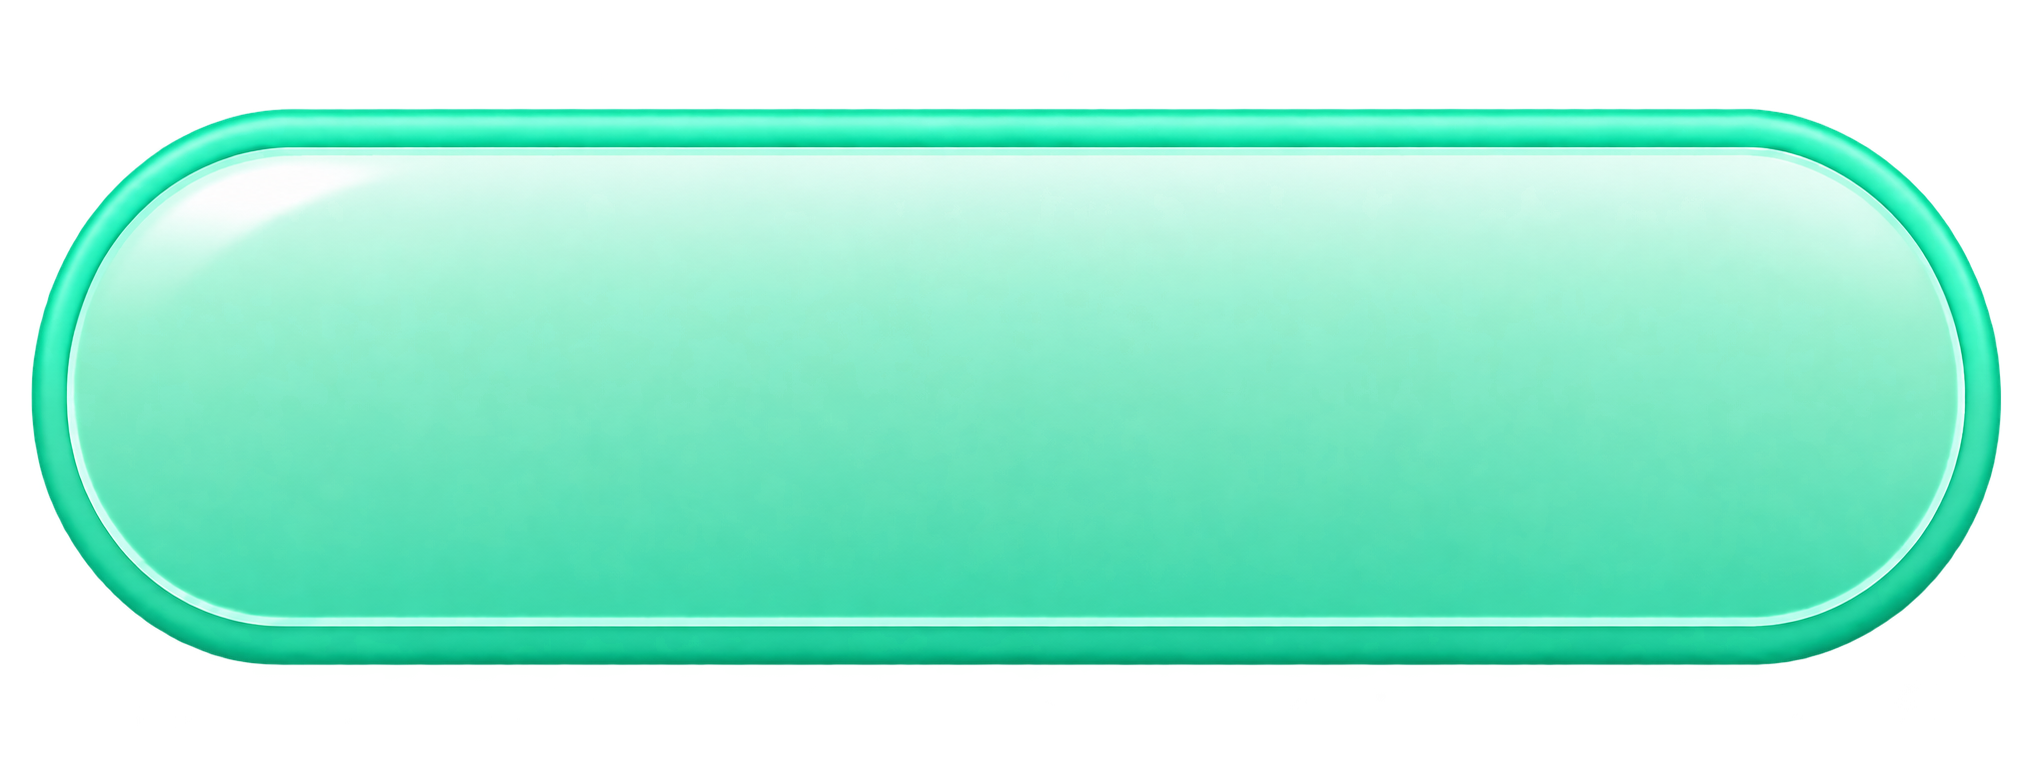
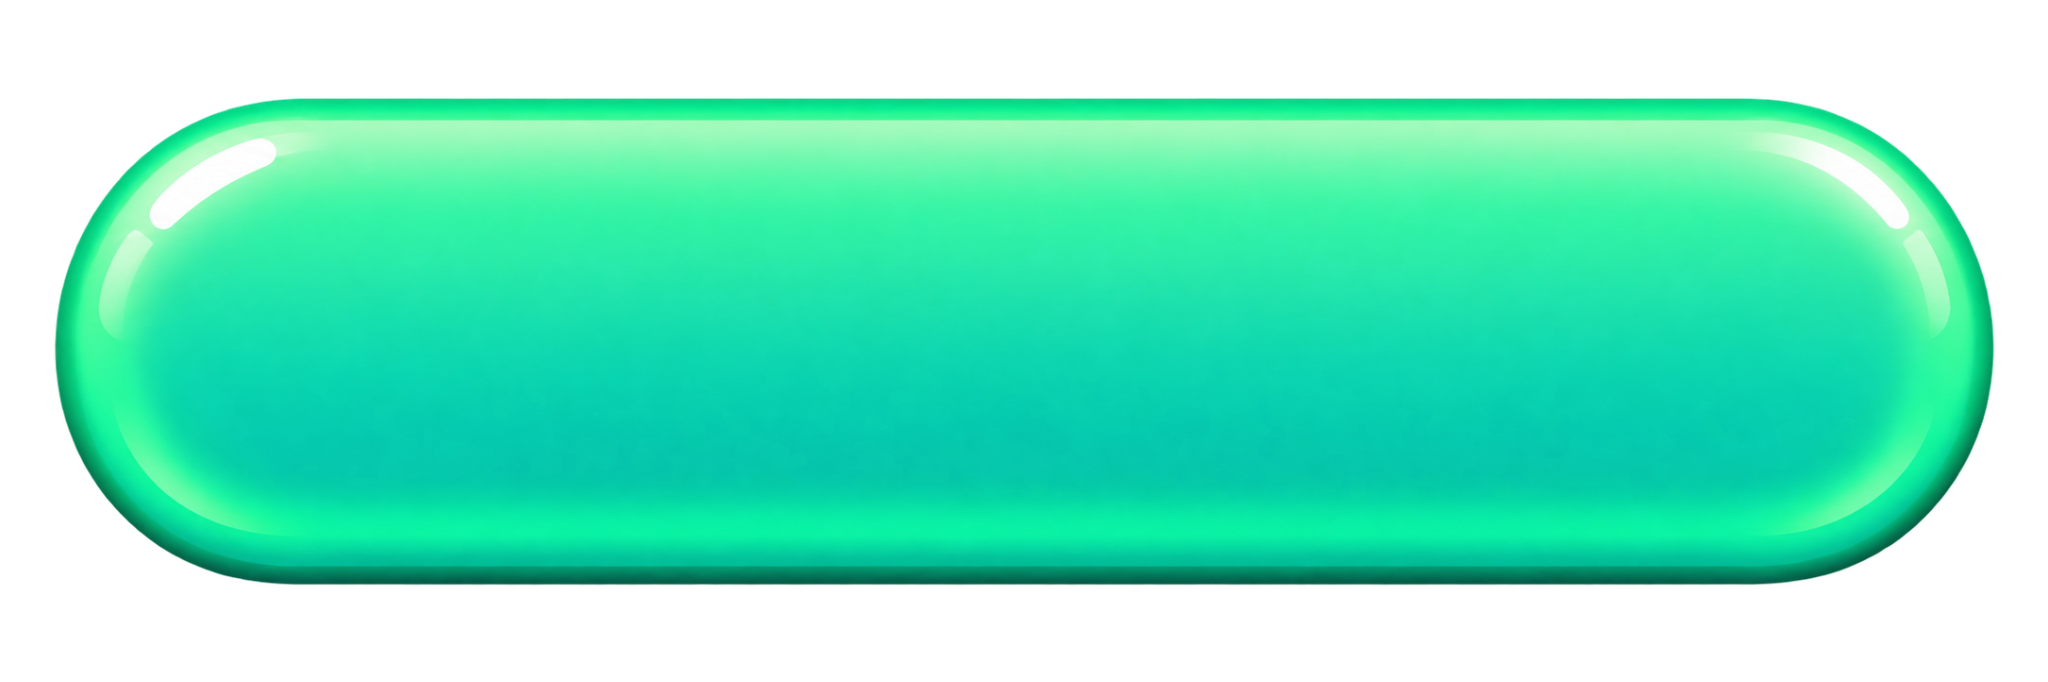
Apply supplied blue and green button artwork across UI and add BEST backdrop

diff --git a/Assets/Scripts/BalloonDogModernUI.cs b/Assets/Scripts/BalloonDogModernUI.cs
@@ -681,10 +681,7 @@ public sealed class BalloonDogModernUI : MonoBehaviour
         RectTransform rect = CreateRect(name, parent);
         SetRect(rect, position, size);
         Image artwork = rect.gameObject.AddComponent<Image>();
-        artwork.sprite = Resources.Load<Sprite>("Market/BlueButton");
-        artwork.type = Image.Type.Simple;
-        artwork.preserveAspect = false;
-        artwork.color = Color.white;
+        BalloonDogMenuArtwork.ApplyButtonBackground(artwork, false);
 
         Button button = rect.gameObject.AddComponent<Button>();
         button.targetGraphic = artwork;
@@ -1092,6 +1089,7 @@ public sealed class BalloonDogModernUI : MonoBehaviour
             background.type = Image.Type.Simple;
             background.preserveAspect = false;
             background.raycastTarget = true;
+            if (gems) BalloonDogMenuArtwork.ApplyButtonBackground(background, false);
 
             int quantity = amounts[i];
             Button rowButton = row.gameObject.AddComponent<Button>();
@@ -1333,6 +1331,9 @@ public sealed class BalloonDogModernUI : MonoBehaviour
     {
         Image artwork = CreateResourceImage(parent, name, "CollectionUI/PageArrow",
             position, new Vector2(215f, 130f));
+        BalloonDogMenuArtwork.ApplyButtonBackground(artwork, false);
+        CreatePauseText(artwork.transform, "PageArrow", ">", Vector2.zero,
+            new Vector2(170f, 100f), 76f, Color.white, TextAlignmentOptions.Center);
         artwork.raycastTarget = true;
         if (previous) artwork.rectTransform.localScale = new Vector3(-1f, 1f, 1f);
         Button button = artwork.gameObject.AddComponent<Button>();
@@ -1939,9 +1940,11 @@ public sealed class BalloonDogModernUI : MonoBehaviour
         RemoveButtonShadow(button);
         button.GetComponentInChildren<TMP_Text>(true).gameObject.SetActive(false);
         Image background = button.GetComponent<Image>();
-        background.sprite = GetResourceSprite("GameOver/DoubleBonus");
-        background.type = Image.Type.Simple;
-        background.preserveAspect = true;
+        BalloonDogMenuArtwork.ApplyButtonBackground(background, true);
+        CreatePauseText(button.transform, "MultiplierLabel", "2X",
+            new Vector2(0f, 60f), new Vector2(760f, 180f), 140f, Color.white, TextAlignmentOptions.Center);
+        CreatePauseText(button.transform, "BonusLabel", "BONUS",
+            new Vector2(0f, -95f), new Vector2(700f, 100f), 70f, Gold, TextAlignmentOptions.Center);
         button.transition = Selectable.Transition.None;
         resultBonusButton = button;
         // The bonus button stays free of decorative stars.
@@ -2484,26 +2487,8 @@ public sealed class BalloonDogModernUI : MonoBehaviour
             return false;
         }
 
-        Sprite backgroundSprite =
-            GetResourceSlicedSprite(backgroundResourcePath);
-        if (backgroundSprite == null)
-        {
-            return false;
-        }
-
-        background.pixelsPerUnitMultiplier = backgroundResourcePath.StartsWith("SettingsUI/") ? 1.8f : 1f;
-        background.sprite = backgroundSprite;
-        background.type = Image.Type.Sliced;
-        background.color = Color.white;
-
-        Material satinMaterial =
-            Resources.Load<Material>(backgroundResourcePath + "Satin");
-        background.material =
-            satinMaterial != null && satinMaterial.shader != null &&
-            satinMaterial.shader.isSupported
-                ? satinMaterial
-                : null;
-        return true;
+        bool green = backgroundResourcePath.Contains("Mint") || backgroundResourcePath.Contains("Resume");
+        return BalloonDogMenuArtwork.ApplyButtonBackground(background, green);
     }
 
     private static TMP_Text CreatePauseText(
@@ -2751,6 +2736,7 @@ public sealed class BalloonDogModernUI : MonoBehaviour
         Image image = button.GetComponent<Image>();
         image.sprite = GetCircleSprite();
         image.type = Image.Type.Simple;
+        BalloonDogMenuArtwork.ApplyButtonBackground(image, false);
         return button;
     }
 
@@ -3672,6 +3658,7 @@ public sealed class BalloonDogModernUI : MonoBehaviour
             FontStyles.Bold,
             TextAlignmentOptions.Center);
         text.raycastTarget = false;
+        BalloonDogMenuArtwork.ApplyButtonColor(image, backgroundColor);
         return button;
     }
 

diff --git a/Assets/Scripts/BalloonDogMenuArtwork.cs b/Assets/Scripts/BalloonDogMenuArtwork.cs
@@ -20,12 +20,14 @@ public static class BalloonDogMenuArtwork
         {
             case "settings_button": frame = new Rect(196f, 166f, 909f, 870f); break;
             case "coin_panel_background": frame = new Rect(99f, 94f, 1841f, 578f); break;
-            case "butonmavi": frame = new Rect(41f, 70f, 1968f, 546f); break;
-            case "butonyesil": frame = new Rect(19f, 96f, 1995f, 582f); break;
+            case "butonmavi": frame = new Rect(75f, 72f, 1898f, 520f); break;
+            case "butonyesil": frame = new Rect(50f, 80f, 1954f, 511f); break;
+            case "best_button": frame = new Rect(94f, 68f, 1873f, 500f); break;
             default: return Sprites[name] = source;
         }
+        bool button = name == "butonmavi" || name == "butonyesil" || name == "best_button";
         Sprite sprite = Sprite.Create(source.texture, frame, new Vector2(.5f, .5f),
-            100f, 0, SpriteMeshType.FullRect);
+            100f, 0, SpriteMeshType.FullRect, button ? new Vector4(260f, 95f, 260f, 95f) : Vector4.zero);
         sprite.name = name + " UI Frame";
         return Sprites[name] = sprite;
     }
@@ -37,6 +39,12 @@ public static class BalloonDogMenuArtwork
         if (sprite == null) return;
         Image image = rect.GetComponent<Image>();
         if (image == null) image = rect.gameObject.AddComponent<Image>();
+        if (name == "butonmavi" || name == "butonyesil" || name == "best_button")
+        {
+            ApplyButtonSprite(image, sprite);
+            image.raycastTarget = interactive;
+            return;
+        }
         image.enabled = true;
         image.sprite = sprite;
         image.type = Image.Type.Simple;
@@ -53,5 +61,51 @@ public static class BalloonDogMenuArtwork
         }
         Button button = rect.GetComponent<Button>();
         if (button != null) button.targetGraphic = image;
+    }
+
+    public static bool ApplyButtonBackground(Image image, bool green)
+    {
+        Sprite sprite = Get(green ? "butonyesil" : "butonmavi");
+        if (image == null || sprite == null) return false;
+        ApplyButtonSprite(image, sprite);
+        return true;
+    }
+
+    public static bool ApplyButtonColor(Image image, Color color)
+    {
+        if (color.a < .1f) return false;
+        bool green = color.g > color.r * 1.15f && color.g > color.b * 1.15f;
+        bool blue = color.b > color.r * 1.15f && color.b >= color.g * .9f && color.g > color.r;
+        return (green || blue) && ApplyButtonBackground(image, green);
+    }
+
+    private static void ApplyButtonSprite(Image image, Sprite sprite)
+    {
+        image.enabled = true;
+        image.sprite = sprite;
+        image.type = Image.Type.Sliced;
+        image.preserveAspect = false;
+        float height = image.rectTransform.rect.height;
+        if (height <= 0f) height = image.rectTransform.sizeDelta.y;
+        image.pixelsPerUnitMultiplier = sprite.rect.height / Mathf.Max(1f, height);
+        image.color = Color.white;
+        image.material = null;
+        UiVerticalGradient gradient = image.GetComponent<UiVerticalGradient>();
+        if (gradient != null) gradient.enabled = false;
+        foreach (Shadow shadow in image.GetComponents<Shadow>()) shadow.enabled = false;
+        foreach (string name in new[] { "ThemeTopGloss", "ThemeBottomShade" })
+        {
+            Transform overlay = image.transform.Find(name);
+            if (overlay != null) overlay.gameObject.SetActive(false);
+        }
+        Button button = image.GetComponent<Button>();
+        if (button != null)
+        {
+            button.targetGraphic = image;
+            ColorBlock colors = button.colors;
+            colors.normalColor = colors.highlightedColor = colors.selectedColor = Color.white;
+            colors.pressedColor = new Color(.92f, .95f, 1f, 1f);
+            button.colors = colors;
+        }
     }
 }

diff --git a/Assets/Scripts/BalloonDogBalloonThemeRuntime.cs b/Assets/Scripts/BalloonDogBalloonThemeRuntime.cs
@@ -291,8 +291,8 @@ public sealed class BalloonDogBalloonThemeRuntime : MonoBehaviour
             settings.pivot = new Vector2(1f, 1f);
             settings.anchoredPosition = new Vector2(-10f, -10f);
             settings.sizeDelta = new Vector2(112f, 112f);
-            StyleIconButton(settings, Color.white, null);
-            BalloonDogMenuArtwork.Apply(settings, "settings_button", true);
+            StyleIconButton(settings, Color.white, GetGearIconSprite());
+            BalloonDogMenuArtwork.Apply(settings, "butonmavi", true);
         }
     }
 
@@ -639,6 +639,7 @@ public sealed class BalloonDogBalloonThemeRuntime : MonoBehaviour
             bestCard.anchoredPosition = new Vector2(0f, -700f);
             EnsurePillBackground(bestCard, new Color(0.24f, 0.50f, 0.94f, 0.96f), new Color(1f, 1f, 1f, 0.05f));
             SoftenPillOutline(bestCard, 0.02f, 0.08f);
+            BalloonDogMenuArtwork.Apply(bestCard, "best_button");
         }
 
         if (best == null)
@@ -1004,6 +1005,7 @@ public sealed class BalloonDogBalloonThemeRuntime : MonoBehaviour
         {
             best.anchorMin = best.anchorMax = new Vector2(.5f, 1f);
             best.anchoredPosition = new Vector2(0f, -700f);
+            BalloonDogMenuArtwork.Apply(best, "best_button");
         }
         RectTransform coins = root.Find("Coins") as RectTransform;
         if (coins != null)
@@ -1042,11 +1044,16 @@ public sealed class BalloonDogBalloonThemeRuntime : MonoBehaviour
             settings.pivot = Vector2.one;
             settings.anchoredPosition = new Vector2(-10f, -10f);
             settings.sizeDelta = new Vector2(112f, 112f);
-            BalloonDogMenuArtwork.Apply(settings, "settings_button");
+            BalloonDogMenuArtwork.Apply(settings, "butonmavi");
         }
         if (settingsIcon != null)
         {
-            settingsIcon.gameObject.SetActive(false);
+            settingsIcon.SetParent(settings, false);
+            settingsIcon.anchorMin = settingsIcon.anchorMax = new Vector2(.5f, .5f);
+            settingsIcon.anchoredPosition = Vector2.zero;
+            settingsIcon.sizeDelta = new Vector2(60f, 60f);
+            settingsIcon.GetComponent<Image>().sprite = GetGearIconSprite();
+            settingsIcon.gameObject.SetActive(true);
         }
         RectTransform level = root.Find("Level") as RectTransform;
         if (level != null)
@@ -1114,6 +1121,7 @@ public sealed class BalloonDogBalloonThemeRuntime : MonoBehaviour
         label.characterSpacing = 0f;
         label.margin = new Vector4(10f, 5f, 10f, 7f);
         ApplySmoothLowPolyText(label, 0f);
+        BalloonDogMenuArtwork.ApplyButtonColor(image, fill);
     }
 
     private static void SetButtonLabelTuning(RectTransform rect, float characterSpacing, Vector4 margin)

diff --git a/Assets/Scripts/BalloonDogContinuePrompt.cs b/Assets/Scripts/BalloonDogContinuePrompt.cs
@@ -26,7 +26,6 @@ public sealed class BalloonDogContinuePrompt : MonoBehaviour
     private static Sprite rounded;
     private Sprite panelSprite;
     private Sprite timerSprite;
-    private Material panelPressMaterial;
 
     public float RemainingSeconds => remaining;
     public bool WaitingForAd => waitingForAd;
@@ -120,8 +119,6 @@ public sealed class BalloonDogContinuePrompt : MonoBehaviour
         overlay = null;
         if (panelSprite != null) Destroy(panelSprite);
         panelSprite = null;
-        if (panelPressMaterial != null) Destroy(panelPressMaterial);
-        panelPressMaterial = null;
         if (timerSprite != null)
         {
             Destroy(timerSprite.texture);
@@ -190,24 +187,20 @@ public sealed class BalloonDogContinuePrompt : MonoBehaviour
         Stretch(timerFill.rectTransform);
         timerFill.raycastTarget = false;
 
-        // The panel itself is rendered once. Press shading is confined to the
-        // green face by its shader; no second copy can leave a rectangular seam.
-        Shader pressShader = Resources.Load<Shader>("ContinueUI/ContinuePress");
-        if (pressShader != null && pressShader.isSupported)
-        {
-            panelPressMaterial = new Material(pressShader);
-            panel.material = panelPressMaterial;
-        }
-        else Debug.LogWarning("Continue press shader unavailable; original panel kept without tint.", this);
+        // The new capsule covers the complete old painted face and its rim.
+        // Only this standalone button animates; the surrounding card stays still.
         RectTransform buttonRect = Rect("WatchAdButton", panel.transform,
-            ArtPosition(769f, 680f), ArtSize(1034f, 200f));
+            ArtPosition(769f, 680f), ArtSize(1200f, 310f));
+        Image face = buttonRect.gameObject.AddComponent<Image>();
+        BalloonDogMenuArtwork.ApplyButtonBackground(face, true);
+        Text(buttonRect, "WatchAdLabel", "WATCH AD", Vector2.zero,
+            buttonRect.sizeDelta - new Vector2(80f, 32f), 68f, Color.white);
         watch = buttonRect.gameObject.AddComponent<Button>();
-        watch.targetGraphic = panel;
+        watch.targetGraphic = face;
         watch.navigation = new Navigation { mode = Navigation.Mode.None };
         watch.onClick.AddListener(WatchAd);
         BalloonDogDirectPressButton input = buttonRect.gameObject.AddComponent<BalloonDogDirectPressButton>();
-        input.Configure(watch, buttonRect, new Vector2(58f / 1034f, 58f / 200f), true);
-        input.UsePanelPressMaterial(panelPressMaterial);
+        input.Configure(watch, buttonRect, new Vector2(155f / 1200f, .5f), false);
 
         // Transient ad status sits below the card; the approved bottom caption
         // remains untouched in the panel art.

diff --git a/Assets/Scripts/BalloonDogSettingsToggleVisualFix.cs b/Assets/Scripts/BalloonDogSettingsToggleVisualFix.cs
@@ -171,21 +171,7 @@ public sealed class BalloonDogSettingsToggleVisualFix : MonoBehaviour
         Image background,
         string resourcePath)
     {
-        Sprite sprite = Resources.Load<Sprite>(resourcePath);
-        if (sprite != null && background.sprite != sprite)
-        {
-            background.sprite = sprite;
-            background.type = Image.Type.Sliced;
-        }
-
-        background.color = Color.white;
-        Material material =
-            Resources.Load<Material>(resourcePath + "Satin");
-        background.material =
-            material != null && material.shader != null &&
-            material.shader.isSupported
-                ? material
-                : null;
+        BalloonDogMenuArtwork.ApplyButtonBackground(background, resourcePath == MintButtonPath);
     }
 
     private static TMP_Text CreateLabel(

diff --git a/Assets/Scripts/MainMenuController.cs b/Assets/Scripts/MainMenuController.cs
@@ -820,6 +820,7 @@ public sealed class MainMenuController : MonoBehaviour
 
         outline.effectColor = new Color(0.01f, 0.18f, 0.32f, 0.75f);
         outline.effectDistance = new Vector2(5f, -5f);
+        BalloonDogMenuArtwork.ApplyButtonBackground(background, false);
     }
 
     private static Sprite GetShrinkIconSprite()
@@ -925,6 +926,7 @@ public sealed class MainMenuController : MonoBehaviour
             outline.effectDistance =
                 new Vector2(2f, -2f);
         }
+        BalloonDogMenuArtwork.ApplyButtonColor(image, normal);
     }
 
     private static void CreateBubbleBackdrop(GameObject panel)

diff --git a/Assets/Scripts/BalloonDogCampaignRuntime.cs b/Assets/Scripts/BalloonDogCampaignRuntime.cs
@@ -324,6 +324,7 @@ public sealed class BalloonDogCampaignRuntime : MonoBehaviour
         button.navigation = new Navigation { mode = Navigation.Mode.None };
         button.onClick.AddListener(action);
         CreateText(image.transform, "Label", label, Vector2.zero, size - new Vector2(20f, 12f), 35f, foreground);
+        BalloonDogMenuArtwork.ApplyButtonColor(image, background);
         return button;
     }
 
